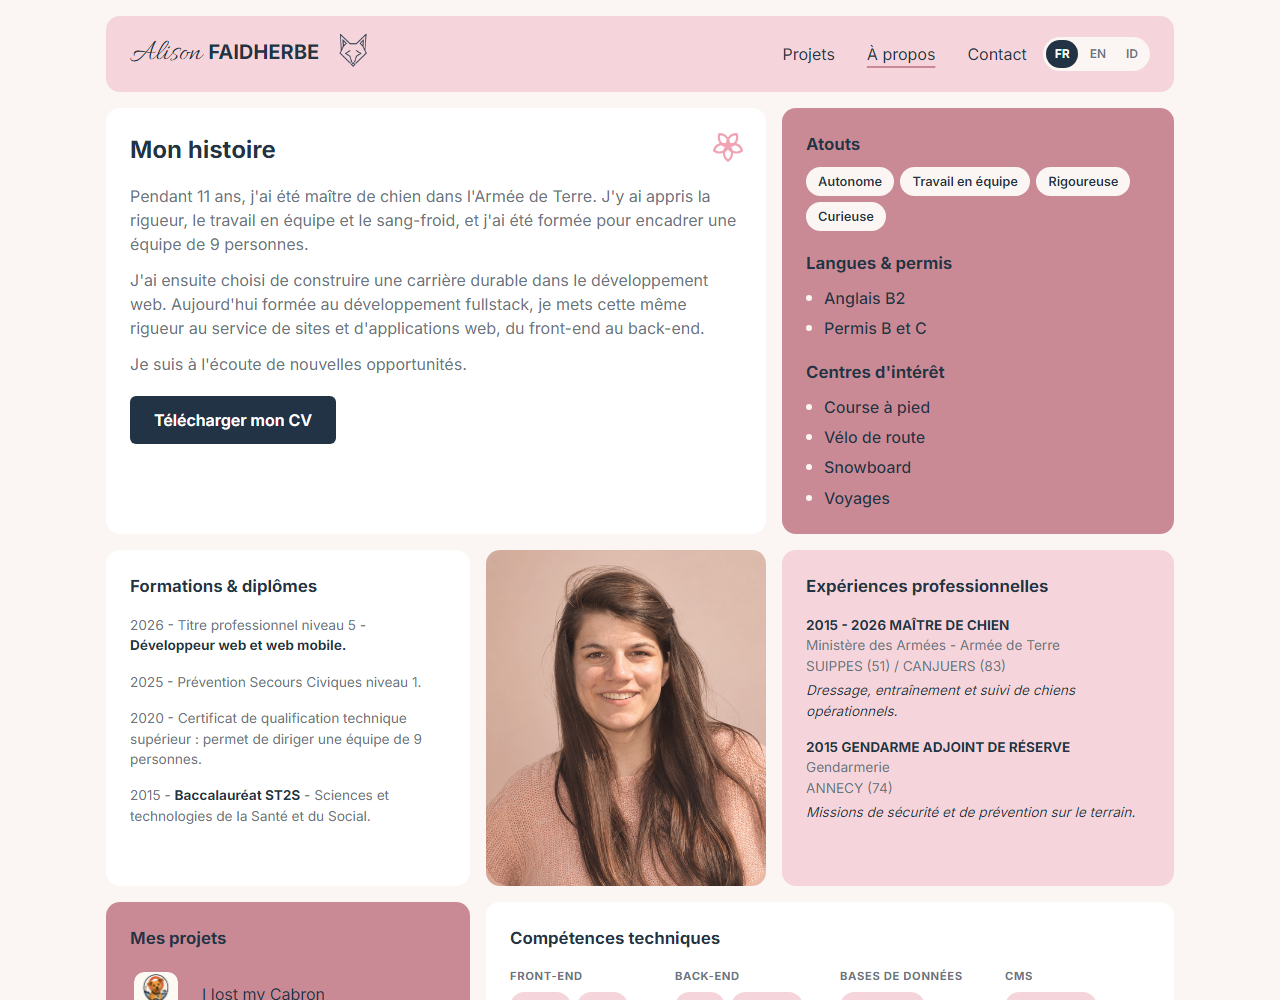
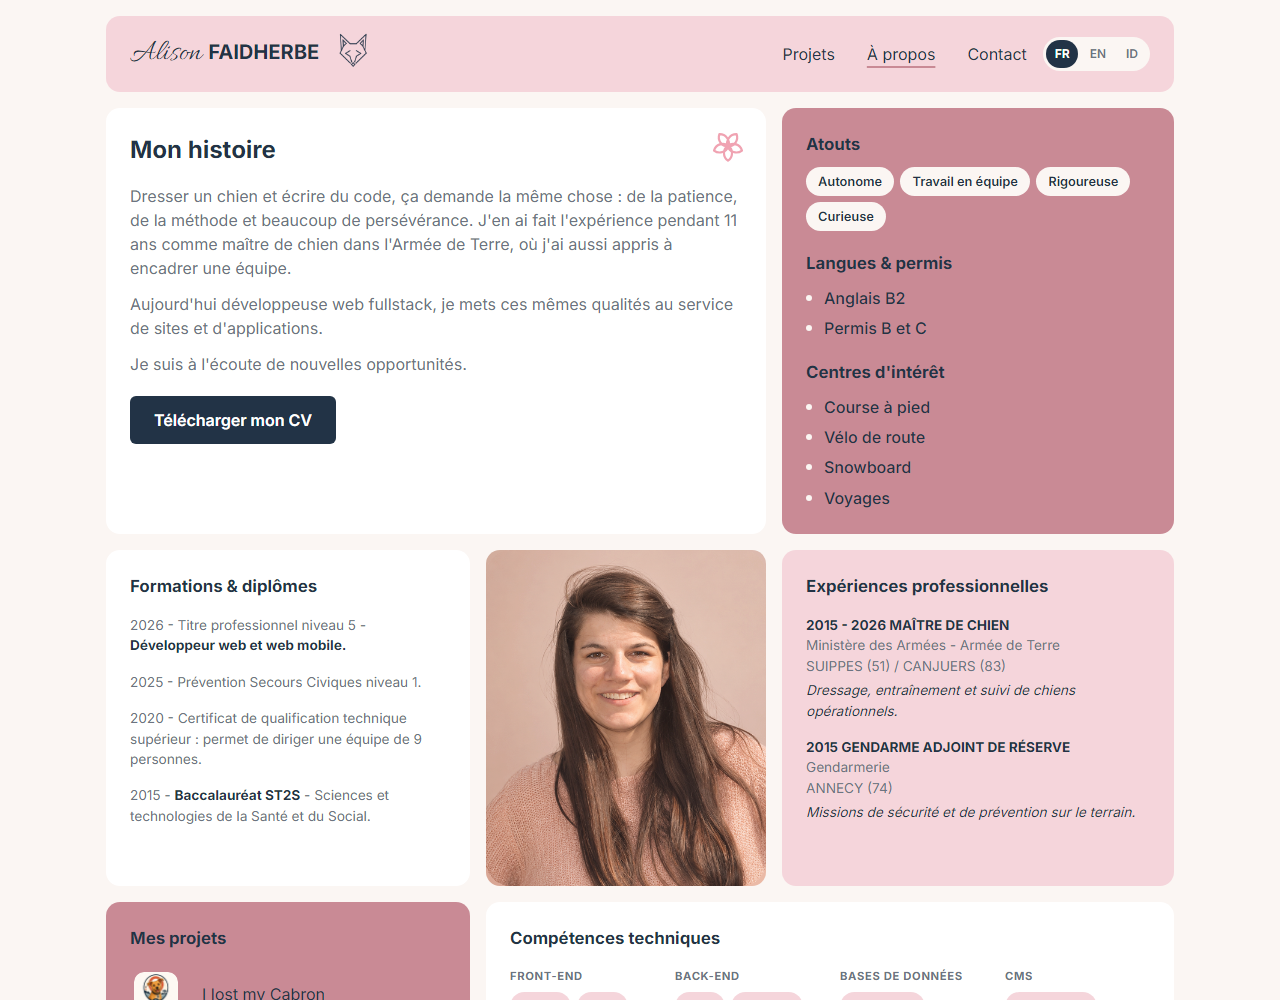
Réécriture du texte « Mon histoire »
Nouveau texte qui fait le lien entre le métier de maître de chien et le
développement, traduit en anglais et en indonésien.

Changed region(s): [[0.0938, 0.186, 0.5625, 0.341]]

diff --git a/js/traductions.js b/js/traductions.js
@@ -90,8 +90,8 @@ const traductions = {
     "divers.permis": "Driving licences B and C",
     "competences.technique": "Technical skills",
     "histoire.titre": "My story",
-    "histoire.p1": "For 11 years, I was a military dog handler in the French Army. It taught me rigour, teamwork and composure under pressure, and I was trained to lead a team of 9 people.",
-    "histoire.p2": "I then chose to build a long-term career in web development. Now trained as a fullstack developer, I bring the same rigour to building websites and web applications, from front-end to back-end.",
+    "histoire.p1": "Training a dog and writing code take the same things: patience, method and plenty of perseverance. I learned this over 11 years as a military dog handler in the French Army, where I also learned to lead a team.",
+    "histoire.p2": "Now a fullstack web developer, I bring these same qualities to building websites and applications.",
     "histoire.p3": "I'm open to new opportunities.",
     "cv": "Download my CV",
     "cv.lien": "assets/CV_Alison_Faidherbe_web_en.pdf",
@@ -183,8 +183,8 @@ const traductions = {
     "divers.permis": "SIM Prancis kategori B dan C",
     "competences.technique": "Keahlian teknis",
     "histoire.titre": "Cerita saya",
-    "histoire.p1": "Selama 11 tahun, saya bekerja sebagai pawang anjing di Angkatan Darat Prancis. Di sana saya belajar disiplin, kerja tim, dan tetap tenang di bawah tekanan, serta dilatih untuk memimpin tim beranggotakan 9 orang.",
-    "histoire.p2": "Kemudian saya memutuskan untuk membangun karier jangka panjang di bidang pengembangan web. Kini sebagai pengembang fullstack, saya menerapkan disiplin yang sama dalam membangun situs dan aplikasi web, dari front-end hingga back-end.",
+    "histoire.p1": "Melatih anjing dan menulis kode membutuhkan hal yang sama: kesabaran, metode, dan ketekunan. Saya mengalaminya selama 11 tahun sebagai pawang anjing di Angkatan Darat Prancis, tempat saya juga belajar memimpin tim.",
+    "histoire.p2": "Kini sebagai pengembang web fullstack, saya menerapkan kualitas yang sama dalam membangun situs dan aplikasi.",
     "histoire.p3": "Saya terbuka untuk peluang baru.",
     "cv": "Unduh CV saya",
     "cv.lien": "assets/CV_Alison_Faidherbe_web_id.pdf",

diff --git a/a-propos.html b/a-propos.html
@@ -44,8 +44,8 @@
         <path d="M12 12V9.2M12 12l2.66-.87M12 12l1.65 2.27M12 12l-1.65 2.27M12 12l-2.66-.87"/>
       </svg>
       <h2 id="titre-histoire" data-i18n="histoire.titre">Mon histoire</h2>
-      <p data-i18n="histoire.p1">Pendant 11 ans, j'ai été maître de chien dans l'Armée de Terre. J'y ai appris la rigueur, le travail en équipe et le sang-froid, et j'ai été formée pour encadrer une équipe de 9 personnes.</p>
-      <p data-i18n="histoire.p2">J'ai ensuite choisi de construire une carrière durable dans le développement web. Aujourd'hui formée au développement fullstack, je mets cette même rigueur au service de sites et d'applications web, du front-end au back-end.</p>
+      <p data-i18n="histoire.p1">Dresser un chien et écrire du code, ça demande la même chose : de la patience, de la méthode et beaucoup de persévérance. J'en ai fait l'expérience pendant 11 ans comme maître de chien dans l'Armée de Terre, où j'ai aussi appris à encadrer une équipe.</p>
+      <p data-i18n="histoire.p2">Aujourd'hui développeuse web fullstack, je mets ces mêmes qualités au service de sites et d'applications.</p>
       <p data-i18n="histoire.p3">Je suis à l'écoute de nouvelles opportunités.</p>
       <a class="bouton" href="assets/CV_Alison_Faidherbe_web.pdf" download data-i18n="cv" data-i18n-attr="href:cv.lien">Télécharger mon CV</a>
     </section>
